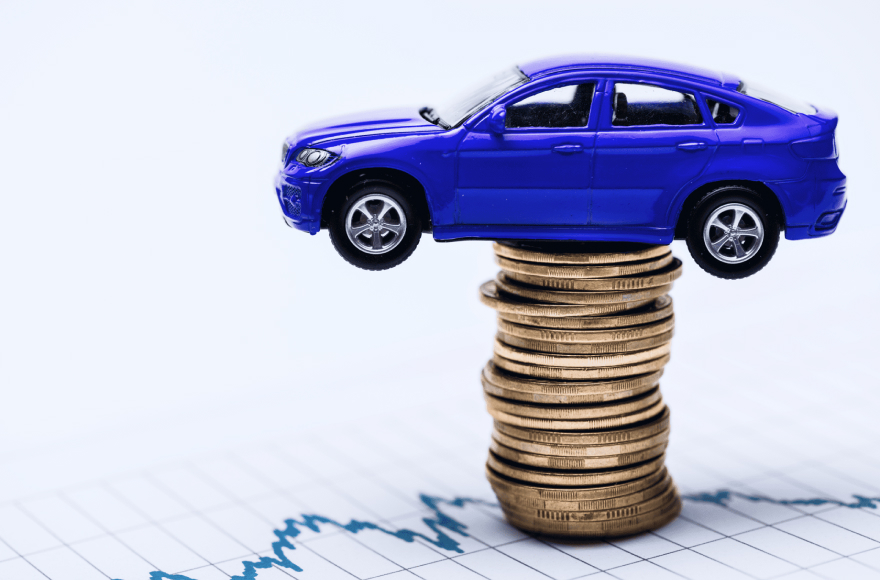
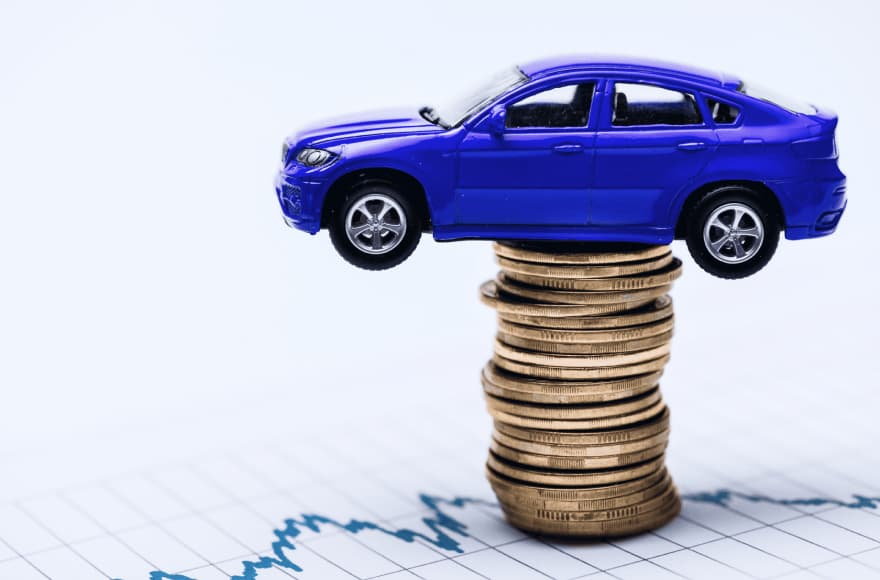
Оптимизация

diff --git a/ligabank/src/components/services-slider/services-slider.module.scss b/ligabank/src/components/services-slider/services-slider.module.scss
@@ -30,11 +30,13 @@
 
   &:nth-child(1) .img {
     background-image: url('../../img/tabs/piggybank.jpg');
+    background-image: -webkit-image-set(url('../../img/tabs/piggybank.webp'));
     background-color: #F9FAFE;
   }
 
   &:nth-child(2) .img {
     background-image: url('../../img/tabs/car.jpg');
+    background-image: -webkit-image-set(url('../../img/tabs/car.webp'));
     background-color: #F0F4FF;
     background-position: 42% 87%;
     background-size: 222%;
@@ -43,6 +45,7 @@
 
   &:nth-child(3) .img {
     background-image: url('../../img/tabs/lock.jpg');
+    background-image: -webkit-image-set(url('../../img/tabs/lock.webp'));
     background-color: $grey--background;
     background-position: 49% 87%;
     background-size: 170%;
@@ -50,6 +53,7 @@
 
   &:nth-child(4) .img {
     background-image: url('../../img/tabs/mobile.jpg');
+    background-image: -webkit-image-set(url('../../img/tabs/mobile.webp'));
     background-color: $grey--background;
     background-position: 50%;
     background-size: 200%;
@@ -59,18 +63,22 @@
   @media (min-resolution: 2dppx) {
     &:nth-child(1) .img {
       background-image: url('../../img/tabs/piggybank@2x.jpg');
+      background-image: -webkit-image-set(url('../../img/tabs/piggybank@2x.webp'));
     }
 
     &:nth-child(2) .img {
       background-image: url('../../img/tabs/car@2x.jpg');
+      background-image: -webkit-image-set(url('../../img/tabs/car@2x.webp'));
     }
 
     &:nth-child(3) .img {
       background-image: url('../../img/tabs/lock@2x.jpg');
+      background-image: -webkit-image-set(url('../../img/tabs/lock@2x.webp'));
     }
 
     &:nth-child(4) .img {
       background-image: url('../../img/tabs/mobile@2x.jpg');
+      background-image: -webkit-image-set(url('../../img/tabs/mobile@2x.webp'));
     }
   }
 }

diff --git a/ligabank/src/components/slider/slider.module.scss b/ligabank/src/components/slider/slider.module.scss
@@ -26,34 +26,41 @@
 
   &:nth-child(1) {
     background-color: $han-purple;
-    background-image: url('../../img/slider/cards.png');
+    background-image: url('../../img/slider/cards.jpg');
+    background-image: -webkit-image-set(url('../../img/slider/cards.webp'));
     background-position: 43% 76%;
     background-size: $slider-background-size;
     background-repeat: no-repeat;
 
     @media (min-resolution: 2dppx) {
-      background-image: url('../../img/slider/cards@2x.png');
+      background-image: url('../../img/slider/cards@2x.jpg');
+      background-image: -webkit-image-set(url('../../img/slider/cards@2x.webp'));
     }
   }
 
   &:nth-child(2) {
     background-color: $second-slide-background;
     background-image: url('../../img/slider/man.jpg');
+    background-image: -webkit-image-set(url('../../img/slider/man.webp'));
+
     background-repeat: no-repeat;
 
     @media (min-resolution: 2dppx) {
       background-image: url('../../img/slider/man@2x.jpg');
+      background-image: -webkit-image-set(url('../../img/slider/man@2x.webp'));
     }
   }
 
   &:nth-child(3) {
     background-color: $third-slide-background;
     background-image: url('../../img/slider/girl.jpg');
+    background-image: -webkit-image-set(url('../../img/slider/girl.webp'));
     background-repeat: no-repeat;
     background-position: 63%;
 
     @media (min-resolution: 2dppx) {
       background-image: url('../../img/slider/girl@2x.jpg');
+      background-image: -webkit-image-set(url('../../img/slider/girl@2x.webp'));
     }
   }
 }

diff --git a/ligabank/src/components/map-component/map-component.module.scss b/ligabank/src/components/map-component/map-component.module.scss
@@ -18,14 +18,16 @@
 .location {
   width: 100%;
   height: 381px;
-  background-image: url('../../img/map.png');
+  background-image: url('../../img/map.jpg');
+  background-image: -webkit-image-set(url('../../img/map.webp'));
   background-size: cover;
   background-position: 100%;
   background-repeat: no-repeat;
   background-color: #EFF5E7;
 
   @media (min-resolution: 2dppx) {
-   background-image: url('../../img/map@2x.png');
+    background-image: url('../../img/map@2x.jpg');
+    background-image: -webkit-image-set(url('../../img/map@2x.webp'));
   }
 }
 

diff --git a/ligabank/src/components/app/app.jsx b/ligabank/src/components/app/app.jsx
@@ -8,7 +8,10 @@ export default function App() {
   return (
     <BrowserRouter>
       <Switch>
-        <Route exact path={AppRoute.MAIN}>
+        <Route
+          exact
+          path={AppRoute.MAIN}
+        >
           <CreditCalculatorPage />
         </Route>
         <Route>
